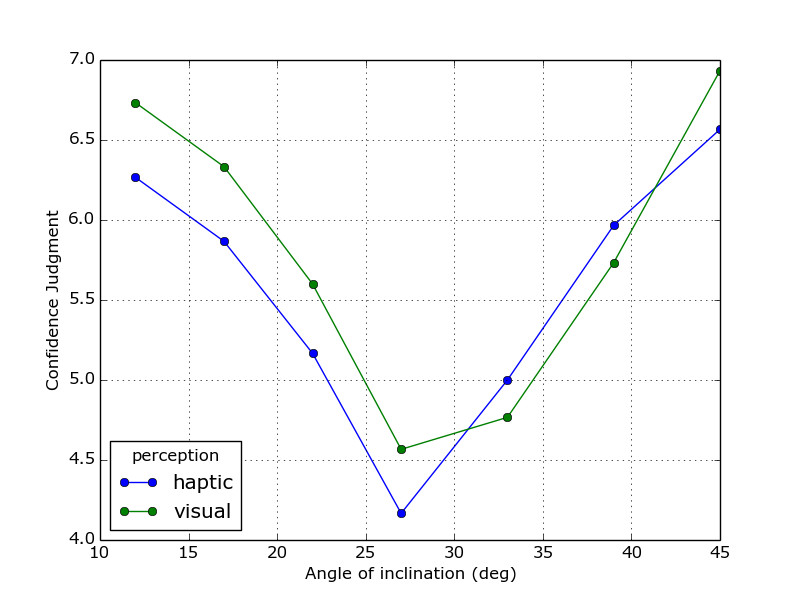
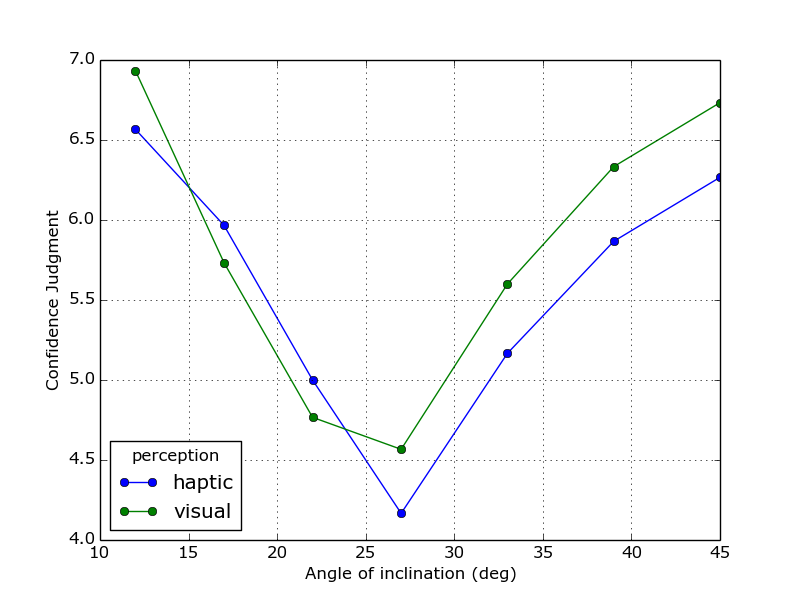
Plots with outliers removed

diff --git a/plots.py b/plots.py
@@ -3,13 +3,13 @@ import matplotlib.pyplot as plt
 from ramp import RampExperiment
 
 data = RampExperiment.load_experiment('exp1.dat').data
-angle_map = {1: 12,
-             2: 17,
-             3: 22,
+angle_map = {7: 12,
+             6: 17,
+             5: 22,
              4: 27,
-             5: 33,
-             6: 39,
-             7: 45}
+             3: 33,
+             2: 39,
+             1: 45}
 data['angle'] = [angle_map[angle] for angle in data['angle']]
 
 #workaround for timedelta since pandas can't take the mean of a timedelta:
@@ -31,3 +31,21 @@ def make_plot(values, ylabel, filename):
 make_plot('can step', 'Percent "Yes"', 'can_step.png')
 make_plot('confidence', 'Confidence Judgment', 'confidence.png')
 make_plot('rt', 'Response Time (sec)', 'rt.png')
+
+# Remove outliers
+z = lambda x: (x - x.mean()) / x.std()
+data['rt_z'] = data.groupby(['angle', 'perception'])['rt'].transform(z)
+data['rt'][abs(data['rt_z']) > 3] = None
+
+means = data.groupby(['angle', 'perception']).mean().reset_index()
+
+make_plot('rt', 'Response Time (sec)', 'rt_rm_outliers.png')
+
+# Remove subject4
+means = data.ix[1:3].append(data.ix[5:10]).groupby(['angle', 'perception']).mean()
+means['can step'] *= 100
+means = means.reset_index()
+
+make_plot('can step', 'Percent "Yes"', 'can_step_rm4.png')
+make_plot('confidence', 'Confidence Judgment', 'confidence_rm4.png')
+make_plot('rt', 'Response Time (sec)', 'rt_rm4.png')
